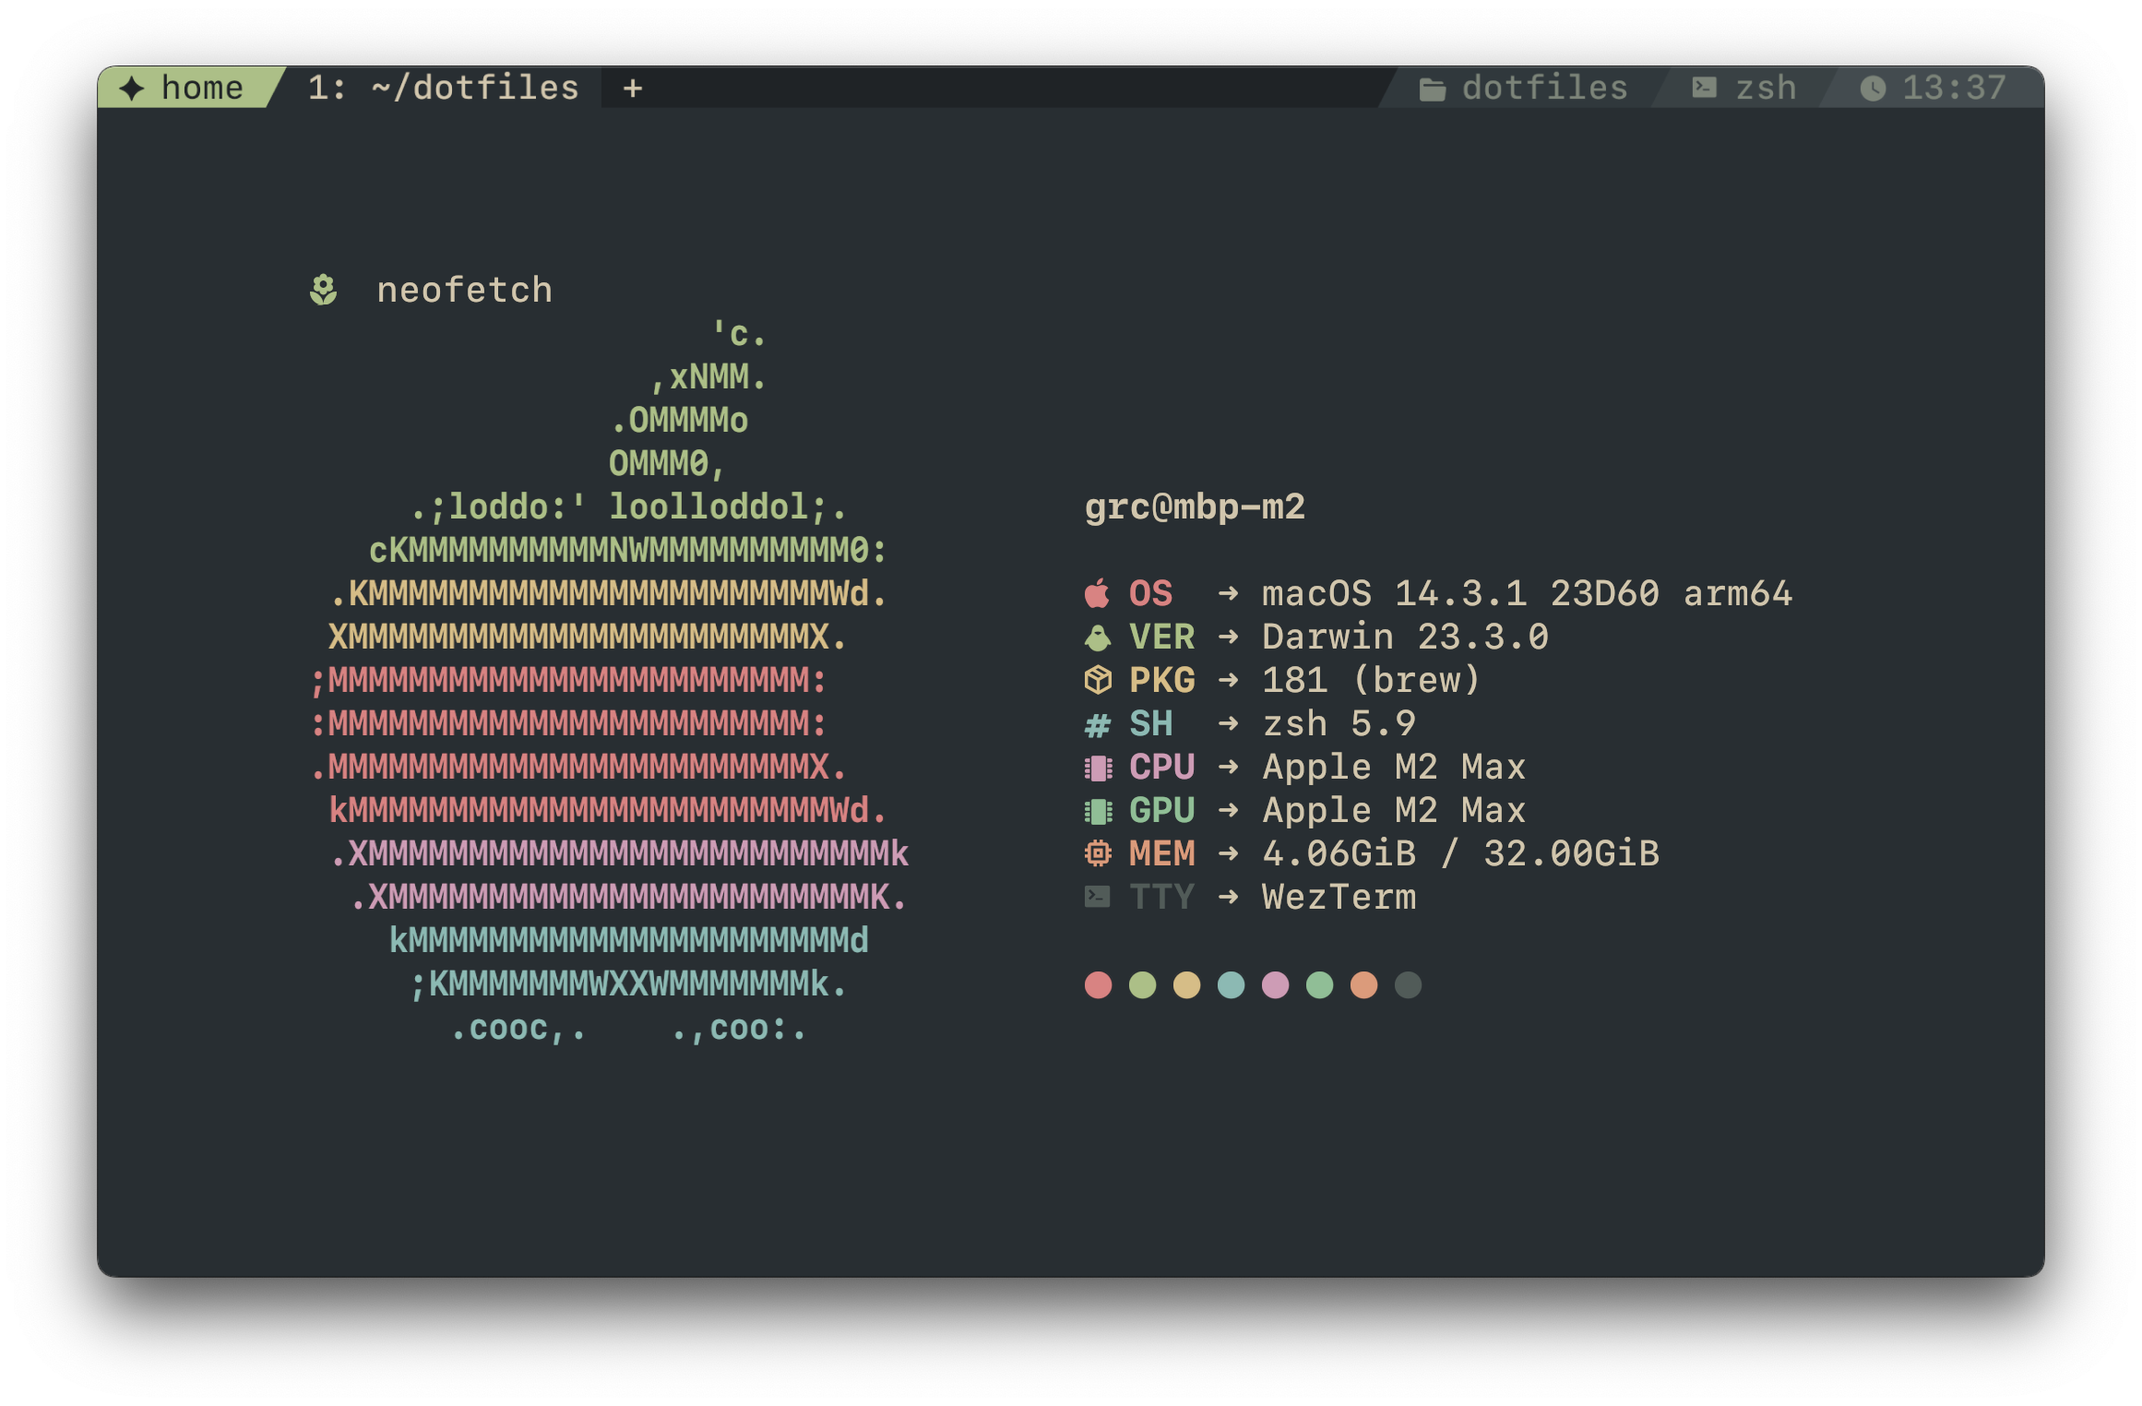
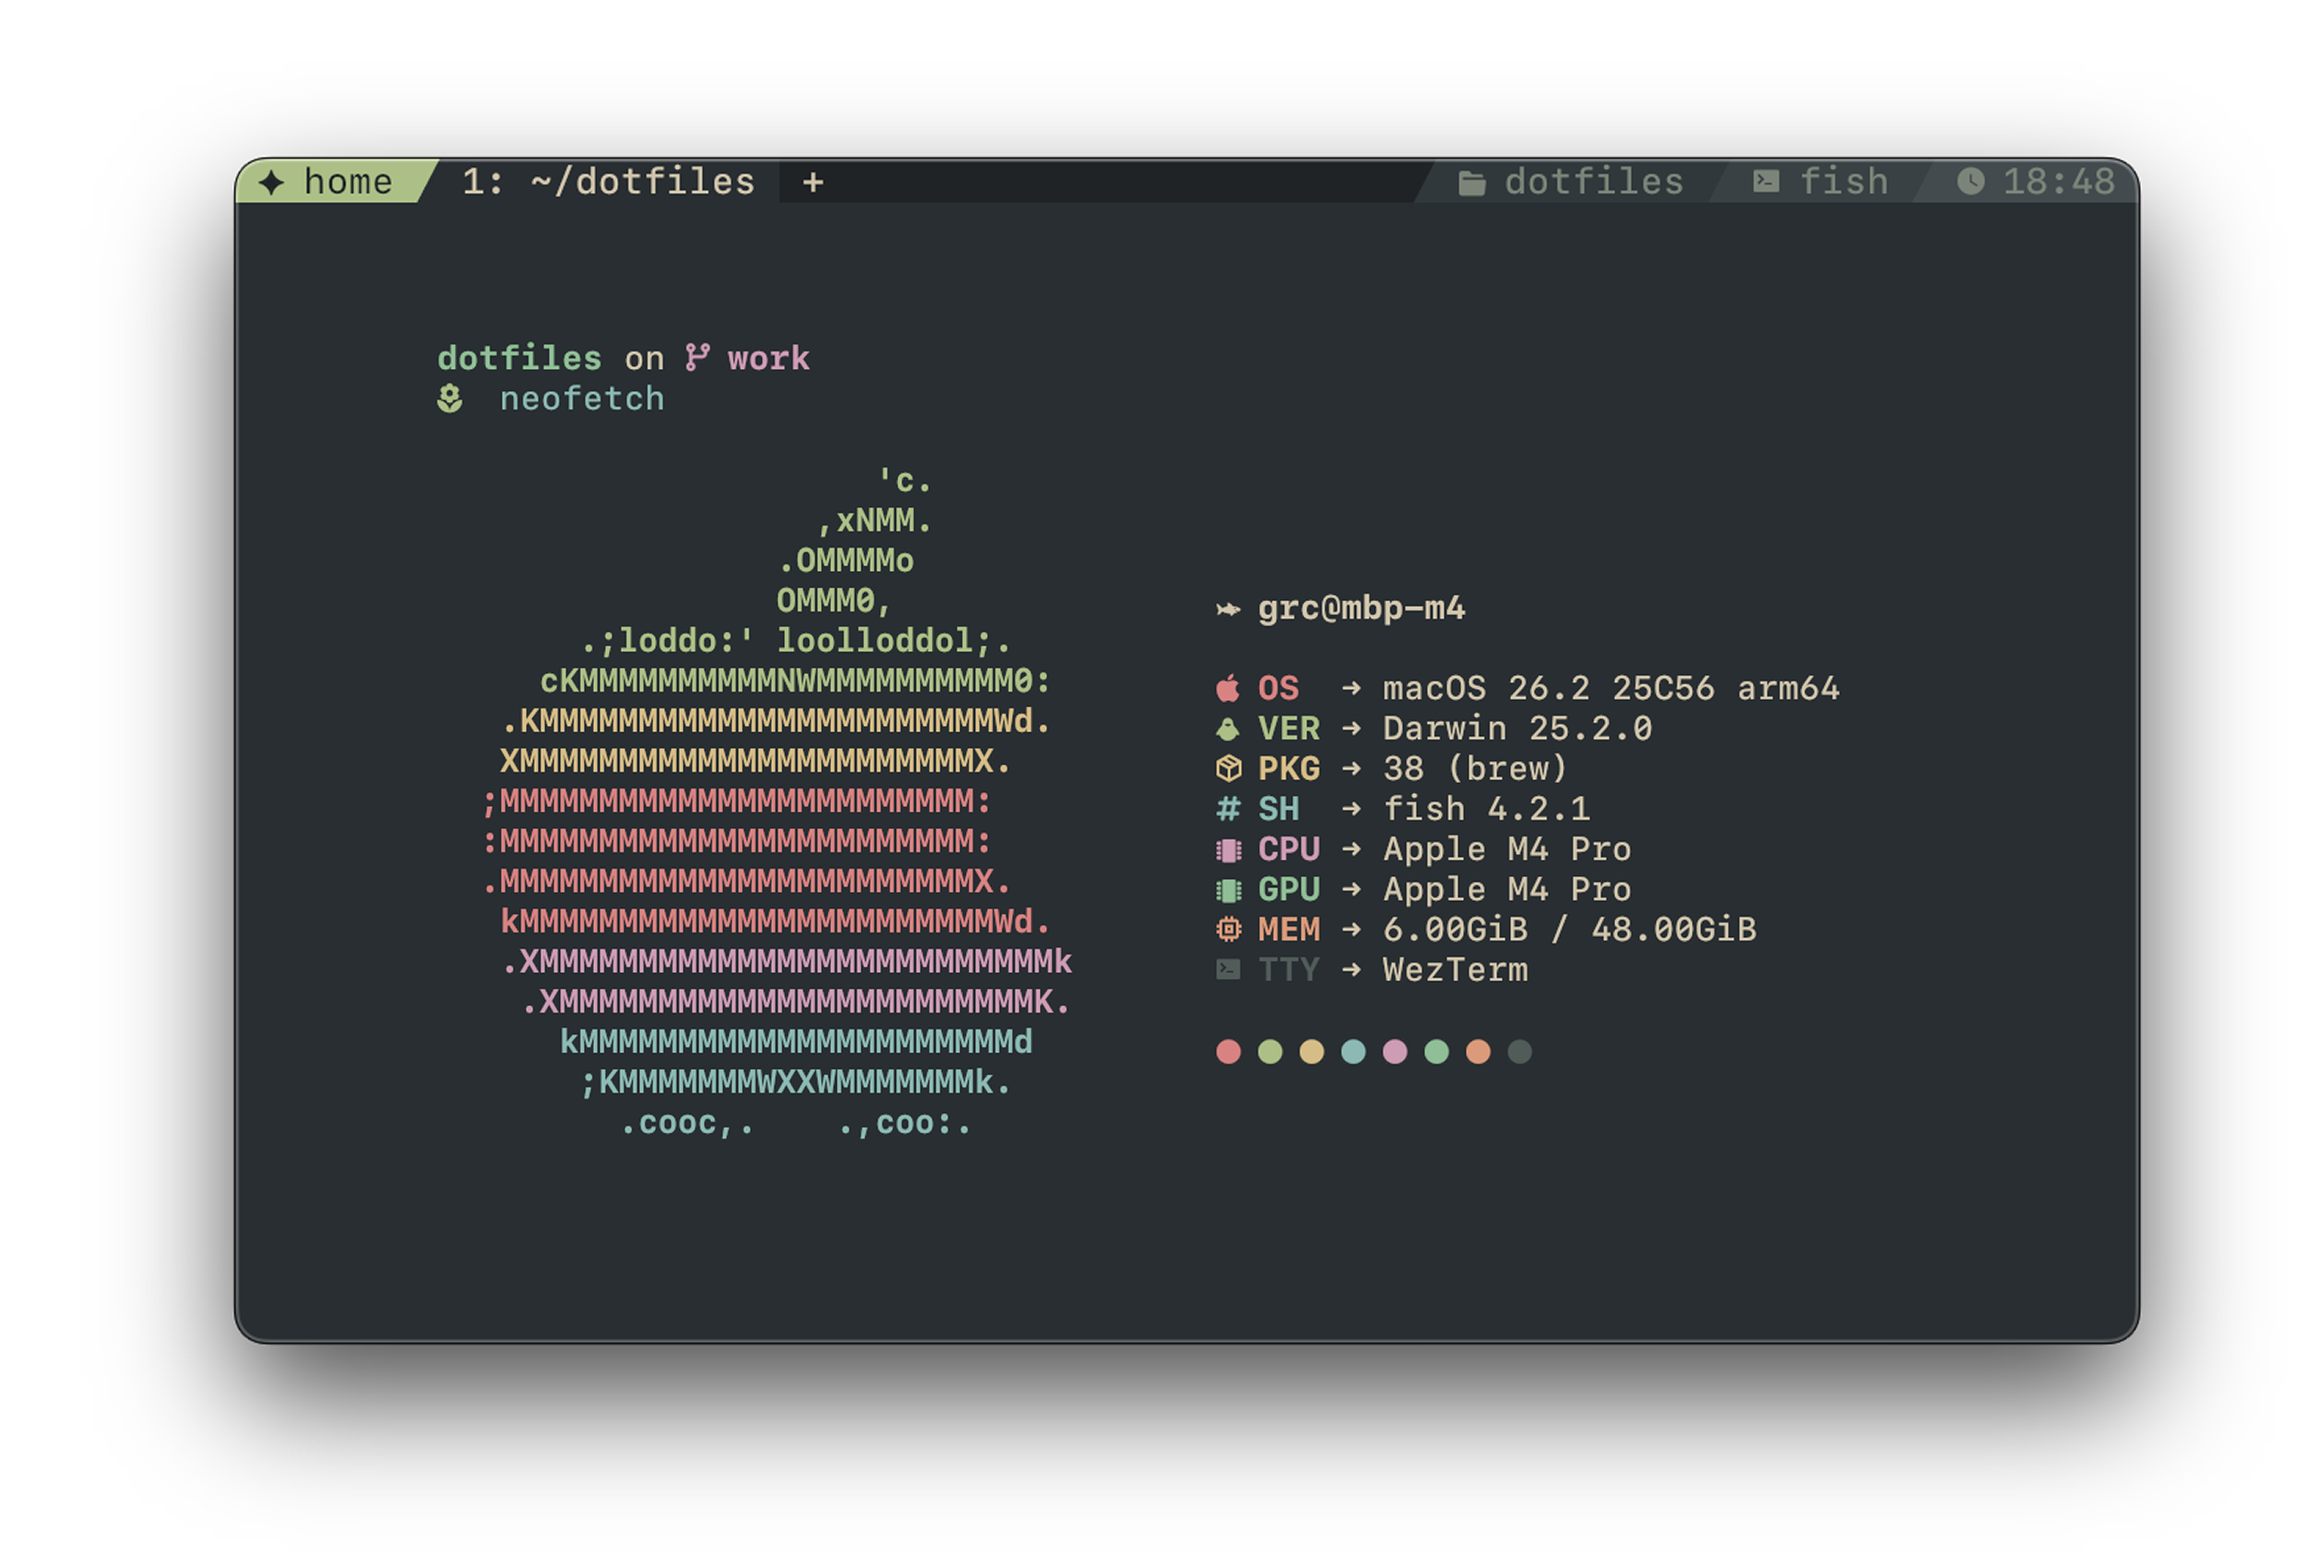
update readme

diff --git a/README.md b/README.md
@@ -4,7 +4,7 @@
 <img src="./screenshots/neofetch.png" alt="neofetch" width="65%" />
 </p>
 
-dotfiles for my primary machine, a macbook pro with the apple m2 max chipset running macos sonoma.
+dotfiles for my work machine, a macbook pro with the apple m4 pro chipset running macos tahoe.
 
 ## quickstart
 
@@ -26,19 +26,9 @@ USAGE: setup.sh [COMMAND]
 
 COMMANDS:
   i, install    Install system packages and fonts
-  p, packages   Install system packages
-  f, fonts      Install system fonts
-  a, ansible    Run Ansible playbook
   s, stow       Run GNU Stow to activate symlinks
 ```
 
 ## applications not managed with homebrew
 
 - xcode
-- [goldendict-ng](https://github.com/xiaoyifang/goldendict-ng)
-- [qolibri](https://github.com/mvf/qolibri)
-
-## see also
-
-- [dotfiles for Pop!\_OS](https://github.com/grcekh/dotfiles/tree/pop)
-- [dotfiles for Manjaro i3](https://github.com/grcekh/dotfiles/tree/manjaro)
